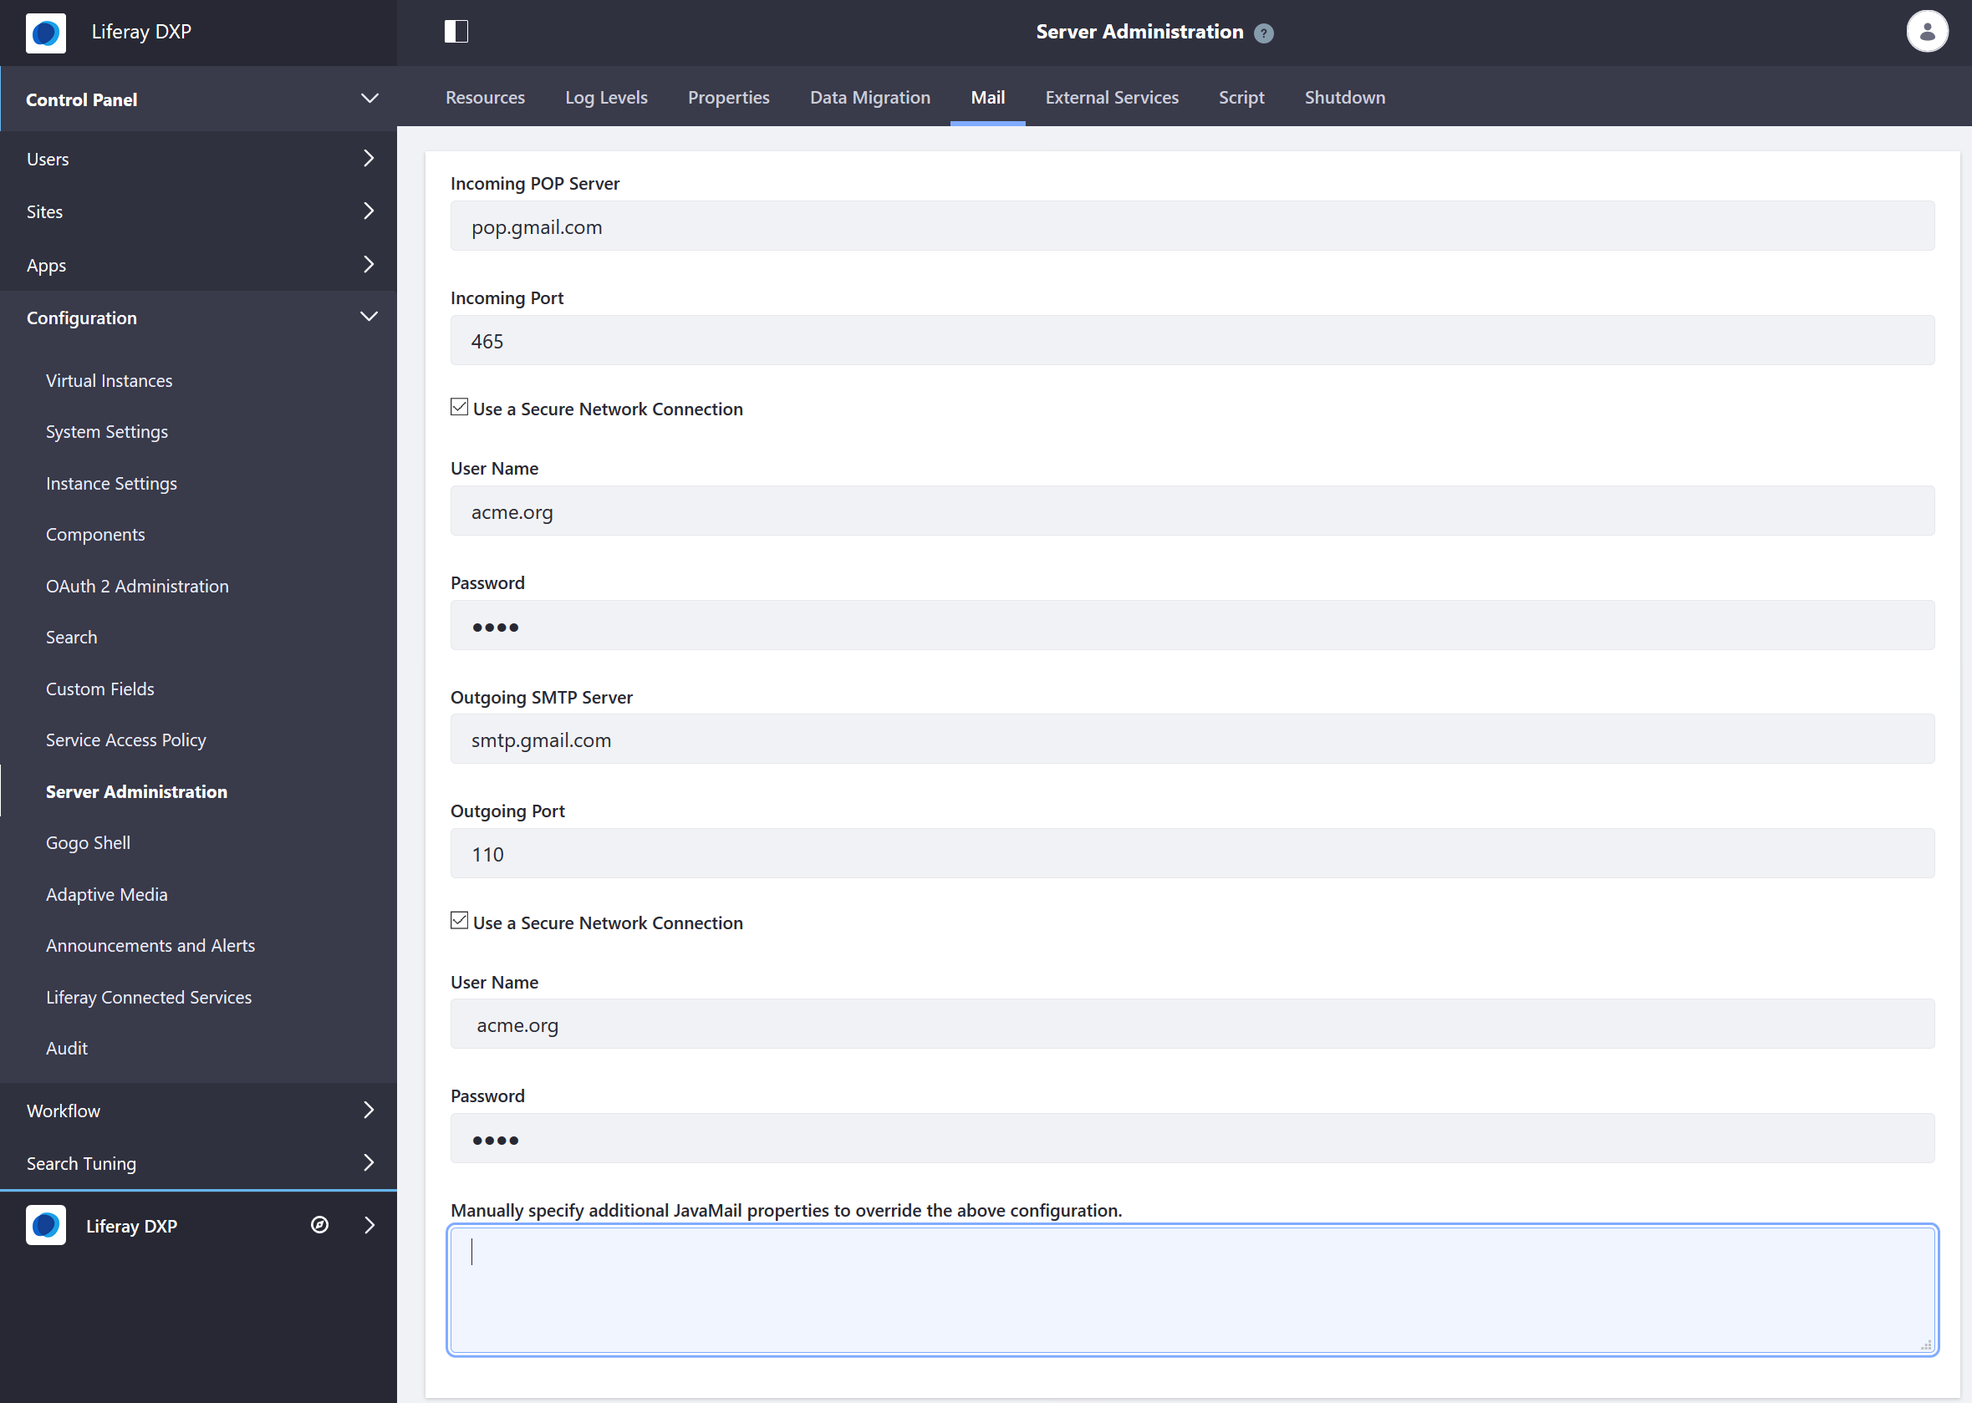
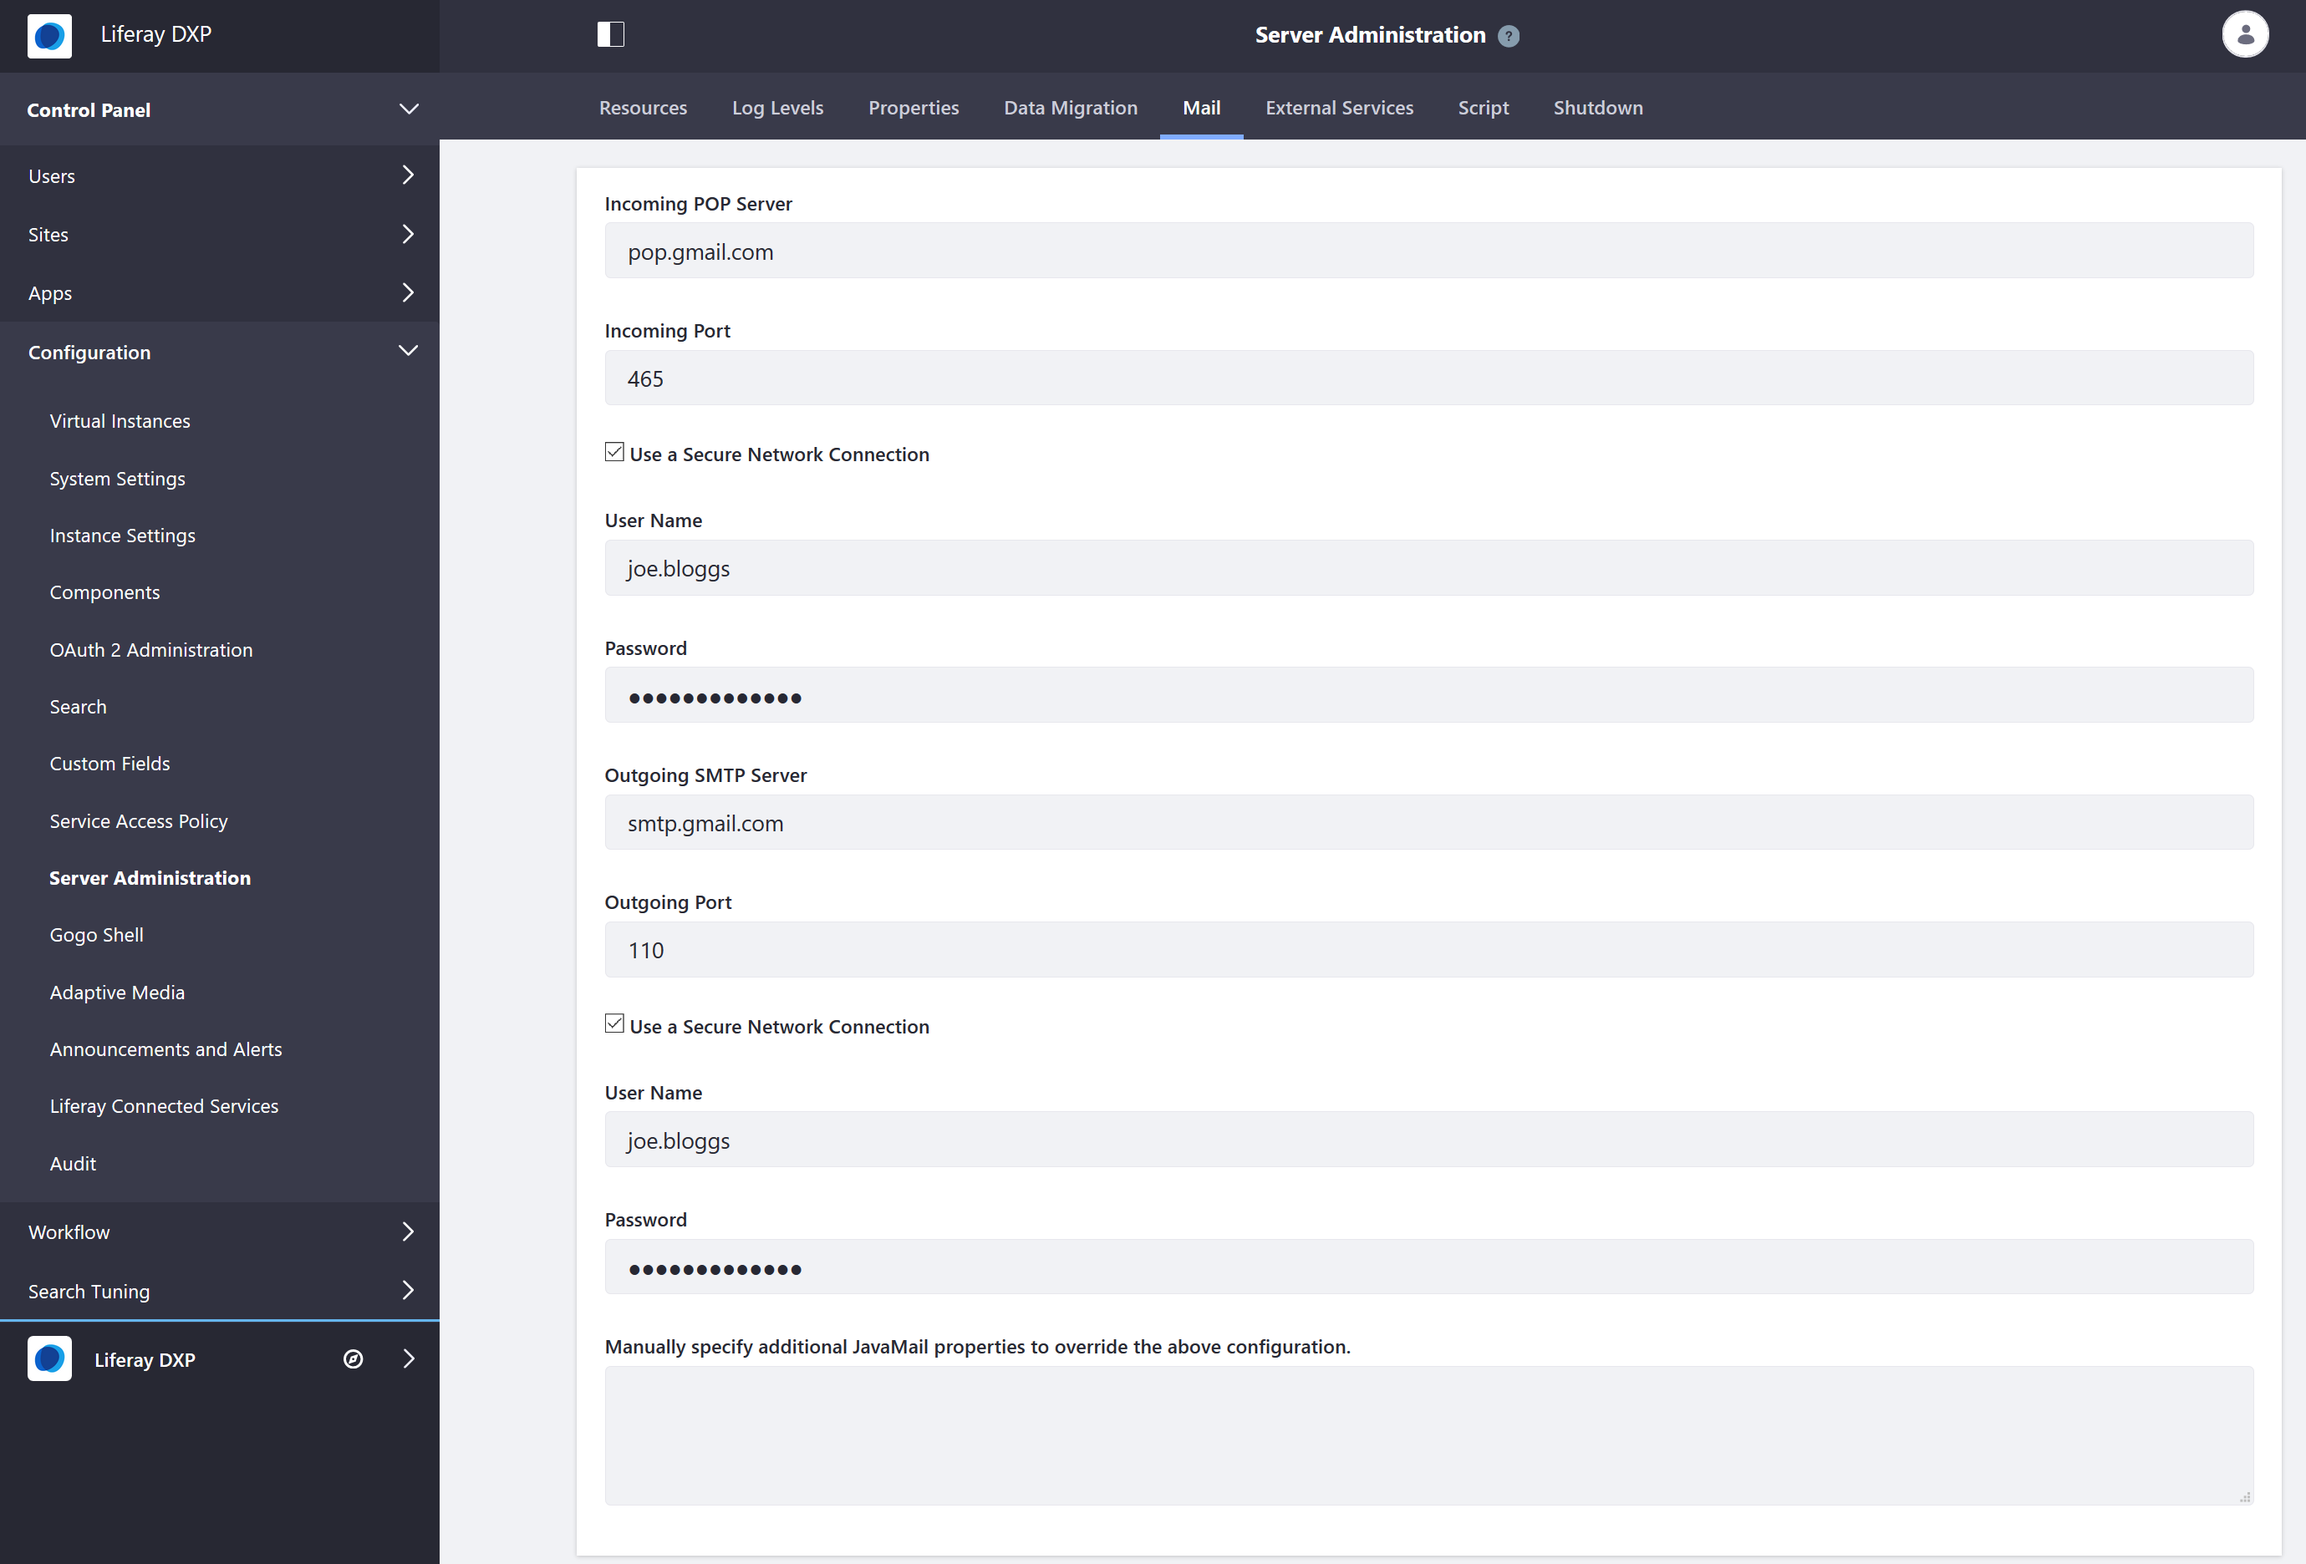
Based on Jim's feedback.

diff --git a/labs/dxp/7.x/installation-and-upgrades/02-setting-up-liferay-dxp/connecting-to-a-mail-server.md b/labs/dxp/7.x/installation-and-upgrades/02-setting-up-liferay-dxp/connecting-to-a-mail-server.md
@@ -1,45 +1,48 @@
 # Connecting to a Mail Server
 
-Liferay DXP uses a mail server and SMTP to send email notifications for a variety of purposes: user registration and password management, site membership notifications, and content updates, to name a few. In order for Liferay DXP to send email notifications we recommend configuring the built-in mail session. As an alternative, you can opt to configure and use your application server's mail session.
+Liferay DXP uses a mail server and SMTP to send email notifications for a variety of purposes: user registration and password management, site membership notifications, and content updates, to name a few. If you have not already created a mail session, use DXP"s built-in- mail session.
 
-Creating a mail session in DXP or on the application server requires the following information:
+Alternately, if there is already a mail session on the application server, connect DXP to it.
 
-* Incoming POP Server and port
-* POP User Name
-* POP Password
-* Outgoing SMTP Server and port
-* SMTP User Name
-* SMTP Password
+Connecting the mail session to DXP or on the application server requires the following information:
+
+* Incoming POP server and port
+* POP user credentials
+* Outgoing SMTP server and port
+* SMTP user credentials
 * All optional JavaMail properties
 
-<!-- Let's provide some information here that can help someone who DOES NOT have this information or know where to start to find this information - some helpful information or links. For example: "To learn more about this topic see: x." Maybe can we create supplemental articles to this one that say explain how to use gmail as an SMTP server to send emails from Liferay (if this actually works) something more practical. https://portaldevelopment.wordpress.com/2008/06/16/sending-email-in-liferay-portal/ , https://www.siteground.com/kb/google_free_smtp_server/ , https://docs.bitnami.com/bch/apps/drupal/configuration/configure-smtp/ for reference. -->
+To learn how to find the mail settings, see:
 
-For more information on how to find the mail settings, see [Read Gmail messages on other email clients using POP](https://support.google.com/mail/answer/7104828?hl=en) and [Check Gmail through other email platforms](https://support.google.com/mail/answer/7126229?hl=en). If using the [IMAP](https://support.google.com/mail/answer/7126229?hl=en) protocol for a category’s mailing list, make sure to [configure the IMAP inbox to delete messages](https://support.google.com/mail/answer/78892?hl=en) as they are pulled by the email client that sends messages to the users on the mailing list. Otherwise, each email message retained on the server is sent to the mailing list each time there's a new post or update in the category.
+* [Read Gmail messages on other email clients using POP](https://support.google.com/mail/answer/7104828?hl=en)
+* [Check Gmail through other email platforms](https://support.google.com/mail/answer/7126229?hl=en)
+
+**Warning**: If using the [IMAP](https://support.google.com/mail/answer/7126229?hl=en) protocol for a category’s mailing list, make sure to [configure the IMAP inbox to delete messages](https://support.google.com/mail/answer/78892?hl=en) as they are pulled by the email client that sends messages to the users on the mailing list. Otherwise, each email message retained on the server is sent to the mailing list each time there's a new post or update in the category.
 
 ## Configuring DXP Built-in Mail Session
 
-The built-in mail session setup can be done using either of these methods:
+To configure the built-in mail session setup, administrators can use either of these methods:
 
 * Control Panel
 * Portal properties
 
 ### Built-in Mail Session in the Control Panel
 
-After deploying DXP, you can configure the mail session from the Control Panel.
+After deploying DXP, follow these steps to configure the mail session from the Control Panel:
 
 1. Sign in as the administrative user (the user specified on the [Basic Configuration page](../installing-liferay/running-liferay-dxp-for-the-first-time.md)).
 1. Navigate to *Control Panel &rarr; Configuration &rarr; Server Administration &rarr; Mail*.
-1. Enter the following:
+1. Enter your values for the following fields:
 
     * **Incoming POP Server:** (POP server hostname)
-    * **Incoming Port:** (POP server port) (for example, _465_)
+    * **Incoming Port:** (POP server port, such as, _465_)
     * **Use a Secure Network Connection:** Flagged.
-    * **User Name:** acme.org
+    * **User Name:** joe.bloggs
     * **Password:** *****
     * **Outgoing SMTP Server:** (SMTP server hostname)
-    * **Outgoing Port:** (SMTP server port) (for example, _115_)
+    * **Outgoing Port:** (SMTP server port, such as, _110_)
     * **Use a Secure Network Connection:** Flagged
-    * **User Name:** acme.org
+    * **User Name:** joe.bloggs
     * **Password:** *****
     * **Manually specify additional JavaMail properties to override the above configuration:** If there are additional properties you need to specify, supply them here.
 
@@ -64,12 +67,12 @@ To configure the mail session offline or before deploying DXP:
     mail.session.mail.pop3.host=pop.gmail.com
     mail.session.mail.pop3.password=*******
     mail.session.mail.pop3.port=465
-    mail.session.mail.pop3.user=acme.org
+    mail.session.mail.pop3.user=joe.bloggs
     mail.session.mail.smtp.auth=true
     mail.session.mail.smtp.host=smtp.gmail.com
     mail.session.mail.smtp.password=*******
     mail.session.mail.smtp.port=110
-    mail.session.mail.smtp.user=acme.org
+    mail.session.mail.smtp.user=joe.bloggs
     mail.session.mail.store.protocol=pop3
     mail.session.mail.transport.protocol=smtp
     ```
@@ -79,9 +82,9 @@ To configure the mail session offline or before deploying DXP:
 
 DXP connects to the mail session on the next startup.
 
-## Configuring a Mail Session on the Application Server
+## Connecting to a Mail Session on the Application Server
 
-Users can opt to configure a mail session for DXP using their application server.
+Users can opt to configure a mail session for DXP using their application server. One example is found in [Configuring a Tomcat-Managed Mail Session](../01-installing-liferay-dxp/01-installing-liferay-on-an-application-server/01-installing-liferay-on-tomcat.md#mail-configuration)
 
 1. Create a mail session on your application server; please see the application server's documentation.
 1. Point DXP to that mail session.
@@ -93,11 +96,11 @@ Users can opt to configure a mail session for DXP using their application server
 1. Click _Save_.
 1. Alternately, set the `mail.session.jndi.name` portal property in a `${LIFERAY_HOME}/portal-ext.properties` file. Here's an example property:
 
-        ```properties
-            mail.session.jndi.name=mail/MailSession
-        ```
+    ```properties
+        mail.session.jndi.name=mail/MailSession
+    ```
 
-The mail server has been configured and ready to send notifications.
+The mail server has been connected to DXP and ready to send notifications.
 
 ## Additional Information
 
